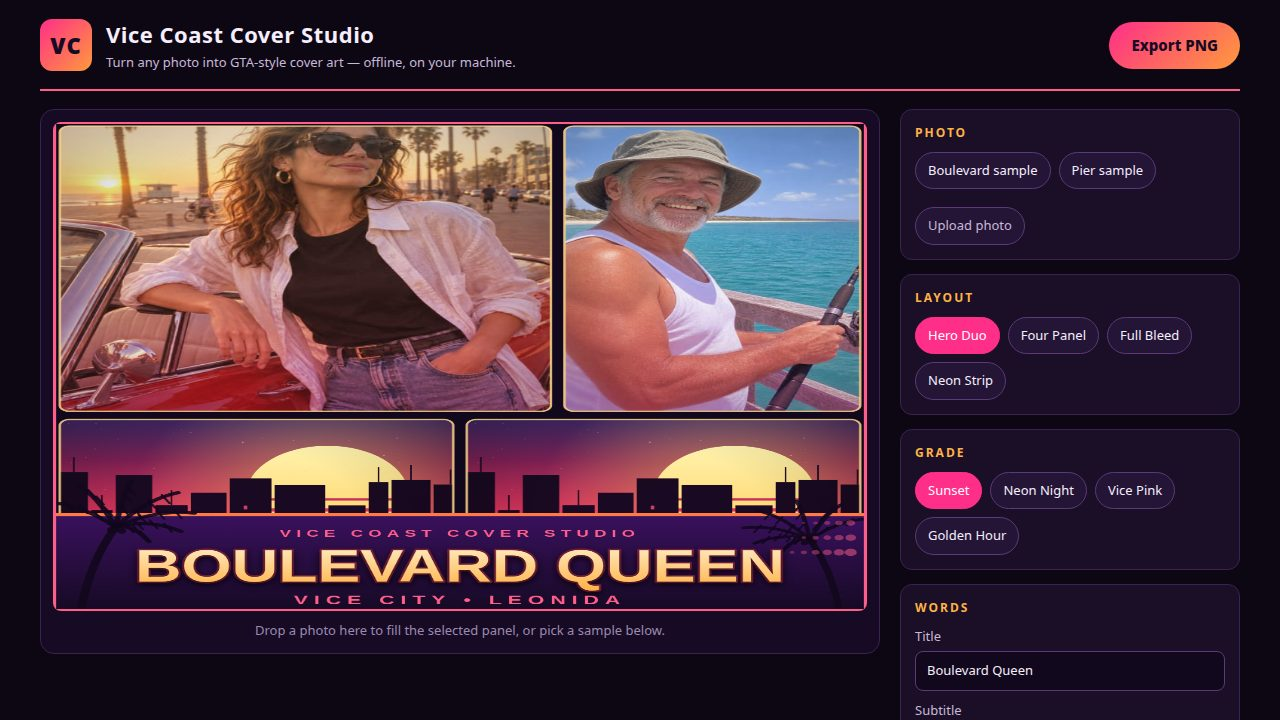
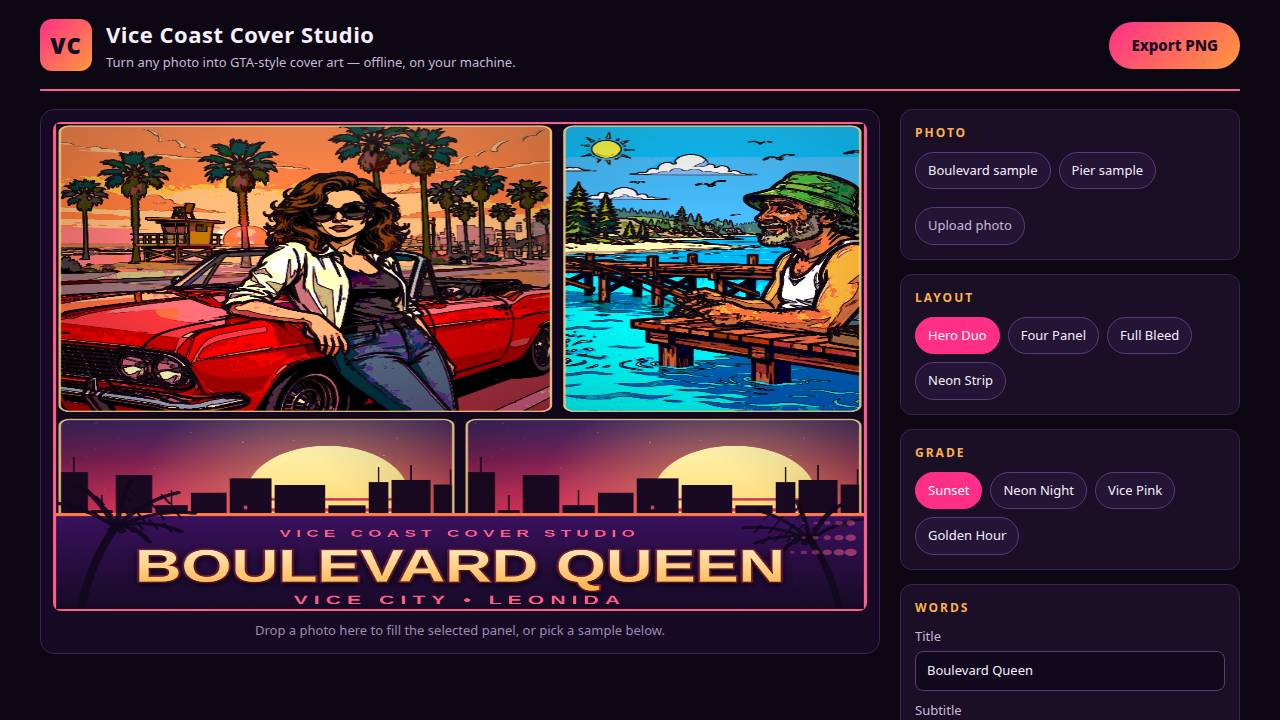
Cartoon revision: illustrated samples + cartoon filter for every photo
- Replace the two sample photos of real people with original flat-vector
  cartoon illustrations (boulevard woman at sunset, pier fisherman)
- Add a cartoon treatment to the renderer: every photo panel is redrawn
  with posterized flat colours and dark comic outlines, so any uploaded
  photo comes out as GTA-style illustration
- Regenerate all four screenshots with the cartoon samples
- README: describe the cartoon samples and the cartoon filter

diff --git a/app/src/cover.js b/app/src/cover.js
@@ -2,8 +2,10 @@
 // Everything on the poster is drawn here in code — gradient skies, a slatted
 // synthwave sun, skyline and palm silhouettes, halftone dots and bold condensed
 // lettering — so the art is original and the poster looks rich even before a
-// photo is loaded. All randomness is seeded, so the same state draws the same
-// bytes every time.
+// photo is loaded. Every photo panel is redrawn through the cartoon filter
+// (posterized flat colours + dark comic outlines), so any uploaded photo comes
+// out as GTA-style illustration, never a plain photograph. All randomness is
+// seeded, so the same state draws the same bytes every time.
 
 import { GRADES } from './grades.js';
 import { LAYOUTS } from './layouts.js';
@@ -214,6 +216,67 @@ function drawPhotoCover(ctx, img, r, panel) {
   ctx.drawImage(img, cx - pw / 2, cy - ph / 2, pw, ph);
 }
 
+function clamp255(v) {
+  return v < 0 ? 0 : v > 255 ? 255 : v;
+}
+
+/**
+ * The cartoon treatment: redraws a photo panel as flat comic art. The photo is
+ * painted onto an offscreen canvas at panel size, then every pixel is pushed
+ * through a saturation boost and quantized to five flat steps per channel,
+ * and a Sobel edge pass inks dark outlines where the picture changes sharply.
+ * Pure pixel math, no randomness — the same photo always cartoons the same way.
+ */
+function drawCartoonPhoto(ctx, img, r, panel) {
+  const w = Math.max(2, Math.round(r.w));
+  const h = Math.max(2, Math.round(r.h));
+  const off = document.createElement('canvas');
+  off.width = w;
+  off.height = h;
+  const o = off.getContext('2d');
+  drawPhotoCover(o, img, { x: 0, y: 0, w, h }, panel);
+  const image = o.getImageData(0, 0, w, h);
+  const d = image.data;
+  const levels = 5;
+  const step = 255 / (levels - 1);
+  const lum = new Float32Array(w * h);
+  for (let p = 0; p < d.length; p += 4) {
+    const i = p / 4;
+    const r0 = d[p];
+    const g0 = d[p + 1];
+    const b0 = d[p + 2];
+    lum[i] = 0.299 * r0 + 0.587 * g0 + 0.114 * b0;
+    const avg = (r0 + g0 + b0) / 3;
+    d[p] = clamp255(Math.round((avg + (r0 - avg) * 1.3) / step) * step);
+    d[p + 1] = clamp255(Math.round((avg + (g0 - avg) * 1.3) / step) * step);
+    d[p + 2] = clamp255(Math.round((avg + (b0 - avg) * 1.3) / step) * step);
+  }
+  // Ink the outlines: where luminance jumps between neighbours, darken toward ink.
+  for (let y = 1; y < h - 1; y++) {
+    for (let x = 1; x < w - 1; x++) {
+      const i = y * w + x;
+      const gx =
+        Math.abs(lum[i - 1] - lum[i + 1]) +
+        0.5 * Math.abs(lum[i - w - 1] - lum[i - w + 1]) +
+        0.5 * Math.abs(lum[i + w - 1] - lum[i + w + 1]);
+      const gy =
+        Math.abs(lum[i - w] - lum[i + w]) +
+        0.5 * Math.abs(lum[i - w - 1] - lum[i + w - 1]) +
+        0.5 * Math.abs(lum[i - w + 1] - lum[i + w + 1]);
+      const mag = gx + gy;
+      if (mag > 46) {
+        const p = i * 4;
+        const k = Math.min(1, (mag - 46) / 90);
+        d[p] = d[p] * (1 - k) + 18 * k;
+        d[p + 1] = d[p + 1] * (1 - k) + 12 * k;
+        d[p + 2] = d[p + 2] * (1 - k) + 20 * k;
+      }
+    }
+  }
+  o.putImageData(image, 0, 0);
+  ctx.drawImage(off, r.x, r.y, r.w, r.h);
+}
+
 /** The grade's wash over a panel: a sunset or neon tint, strongest at the foot. */
 function applyWash(ctx, r, grade) {
   const wash = ctx.createLinearGradient(0, r.y, 0, r.y + r.h);
@@ -373,7 +436,7 @@ export function drawCover(ctx, W, H, state) {
     roundRectPath(ctx, r.x, r.y, r.w, r.h, corner);
     ctx.clip();
     const img = state.photos ? state.photos.get(panel.src) : null;
-    if (img) drawPhotoCover(ctx, img, r, panel);
+    if (img) drawCartoonPhoto(ctx, img, r, panel);
     else drawScene(ctx, r, grade);
     applyWash(ctx, r, grade);
     drawVignette(ctx, r);

diff --git a/README.md b/README.md
@@ -11,8 +11,13 @@ neon colour grade, exported as a PNG to share. Entry for the make.fun bounty
 
 ## What it does
 
-- **Any photo** — upload your own (file picker or drag & drop) or try the two
-  bundled samples. Each panel takes its own photo, or a procedural sunset
+- **Any photo, drawn as a cartoon** — upload your own (file picker or
+  drag & drop) or try the two bundled samples, both original cartoon
+  illustrations: a woman with sunglasses leaning on a red convertible at
+  sunset, and a man in a bucket hat fishing from a pier. Every photo panel
+  runs through the cartoon filter — posterized flat colours with dark comic
+  outlines — so any upload comes out as GTA-style illustration, never a
+  plain photograph. Each panel takes its own photo, or a procedural sunset
   scene the app draws itself.
 - **Four poster layouts** — Hero Duo, Four Panel, Full Bleed and Neon Strip.
   Click a panel in the preview to select it, then crop it with the zoom and
@@ -38,14 +43,15 @@ on your own machine and never uploaded anywhere.
 - `app/index.html` — the editor page.
 - `app/style.css` — the dark studio shell.
 - `app/src/main.js` — wires the editor: photos, panels, export.
-- `app/src/cover.js` — the cover renderer: panels, grades, procedural
-  sunset art (slatted sun, skyline and palm silhouettes, halftone dots) and
-  the title band.
+- `app/src/cover.js` — the cover renderer: panels, grades, the cartoon
+  filter (posterized flat colours + dark comic outlines for every photo
+  panel), procedural sunset art (slatted sun, skyline and palm silhouettes,
+  halftone dots) and the title band.
 - `app/src/grades.js` — the four grade palettes.
 - `app/src/layouts.js` — the four panel layouts.
 - `app/src/shots.js` — the fixed `?shot=` scenes used for screenshots.
-- `app/samples/` — the two bundled sample photos, made for make.fun and
-  free to use.
+- `app/samples/` — the two bundled sample illustrations: original
+  flat-vector cartoon art generated for this entry (no real people).
 - `main.ts` — the entry program: copies `app/` and `screenshots/` to the
   output directory and writes `dossier.json` with `vendor/makefun-app.ts`.
 
@@ -53,4 +59,6 @@ on your own machine and never uploaded anywhere.
 
 All art, lettering and fonts in this app are original and drawn in code. There
 is no Rockstar Games logo, no official GTA artwork and no Rockstar font
-anywhere in it; the lettering uses only the system font stack.
+anywhere in it; the lettering uses only the system font stack. The sample
+illustrations are original cartoon art made for this entry, and no photograph
+of a real person appears anywhere in the app or its screenshots.
